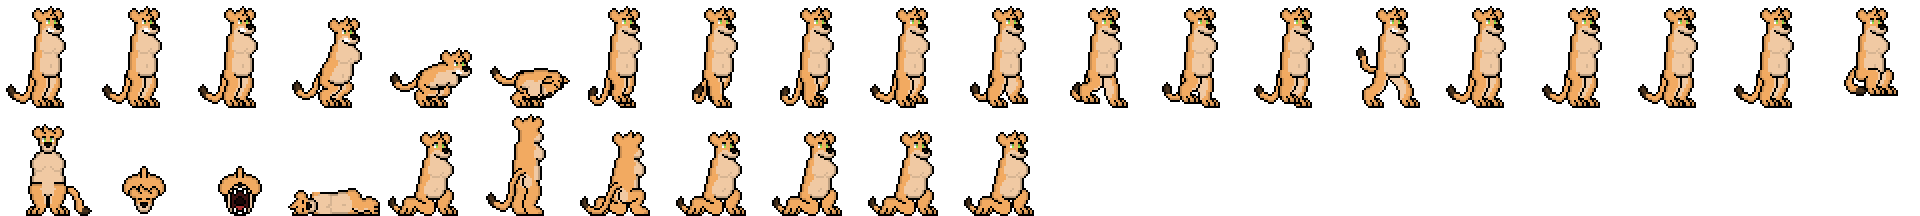
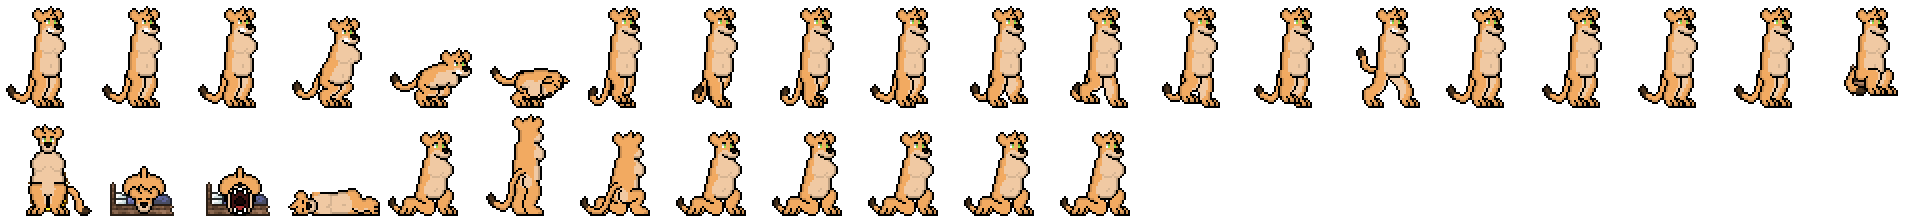
Tweaked Leona's sprites, and added a variant of the crouch animation with the weapon not held.

Changed region(s): [[0.5312, 0.6111, 0.5938, 1.0], [0.0312, 0.8889, 0.1562, 1.0]]

diff --git a/Companions/Leona/LeonaBase.cs b/Companions/Leona/LeonaBase.cs
@@ -115,6 +115,15 @@ namespace terraguardians.Companions
                 return anim;
             }
         }
+        protected override AnimationFrameReplacer[] SetArmFrontFrameReplacers
+        {
+            get
+            {
+                AnimationFrameReplacer right = new AnimationFrameReplacer(), left = new AnimationFrameReplacer();
+                right.AddFrameToReplace(31, 0);
+                return new AnimationFrameReplacer[]{ left, right };
+            }
+        }
         #endregion
         #region Animation Position
         protected override AnimationPositionCollection SetSittingPosition
